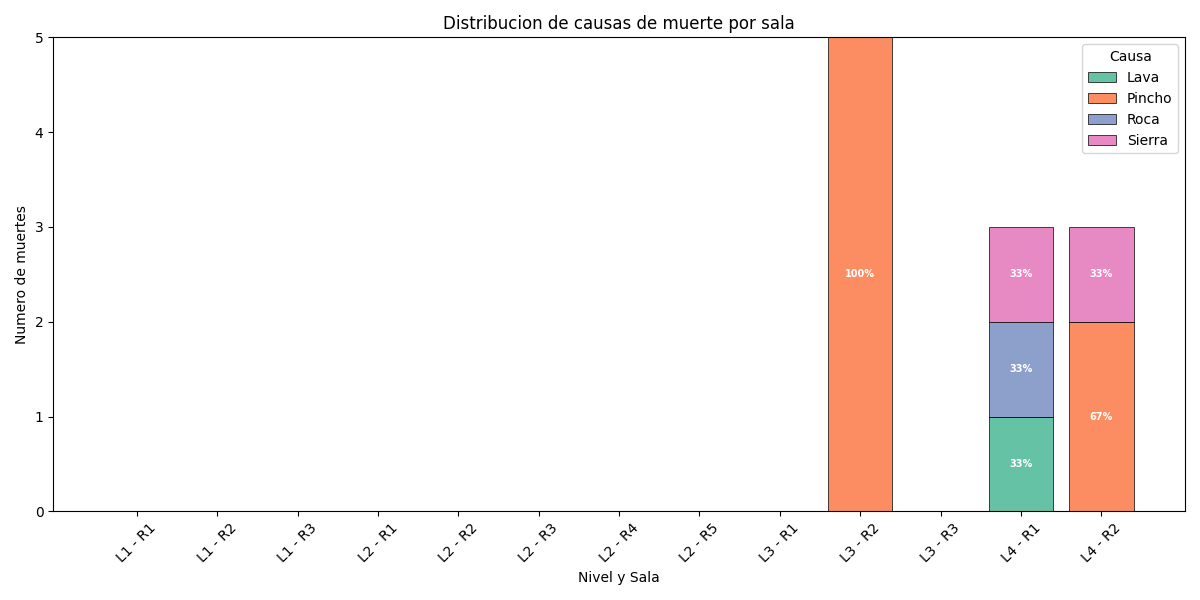
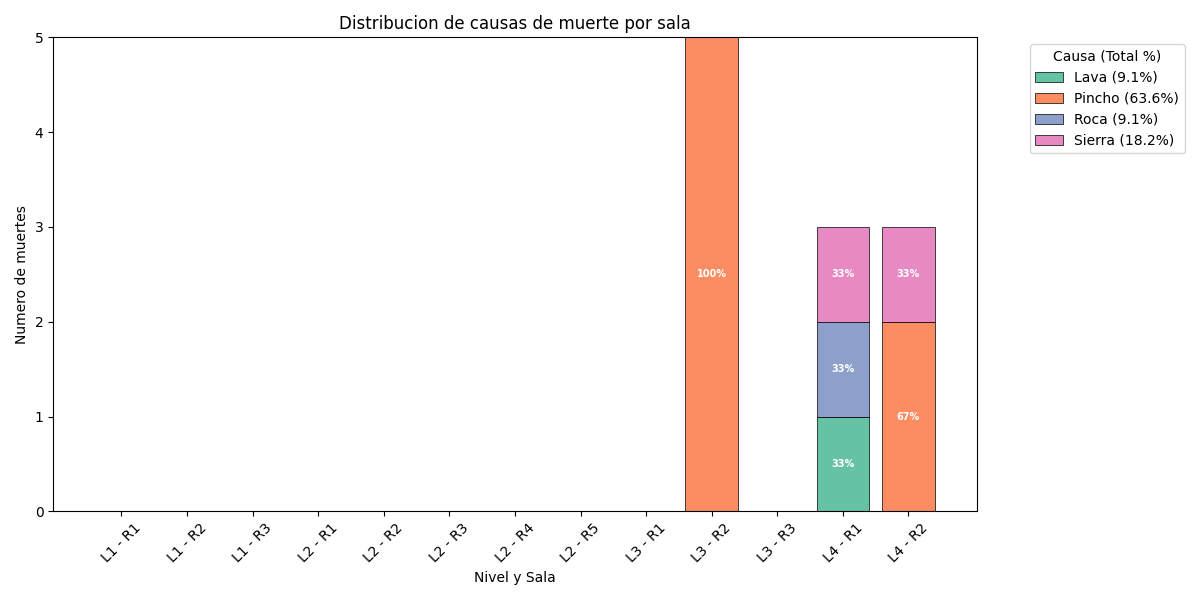
Porcentaje global de cada Death Cause

diff --git a/Metricas/src/Death_Cause.py b/Metricas/src/Death_Cause.py
@@ -83,6 +83,14 @@ for level, rooms in rooms_per_level.items():
         totals.append(sum(row))
 
 total_all = sum(totals)
+
+cause_totals = {cause: 0 for cause in all_causes}
+for level in data:
+    for room in data[level]:
+        for cause, count in data[level][room].items():
+            cause_totals[cause] += count
+
+
 print(f"Archivos leidos: {files_read}")
 print(f"Total Player_Death: {total_all}")
 print("\nMuertes por sala y causa:")
@@ -97,6 +105,14 @@ for i, (level, rooms) in enumerate(rooms_per_level.items()):
                 if c > 0:
                     print(f"    {cause}: {c} ({c/t*100:.1f}%)")
 
+print("\nPorcentaje global por causa de muerte:")
+if total_all > 0:
+    for cause in all_causes:
+        c_tot = cause_totals[cause]
+        print(f"  {cause}: {c_tot} ({(c_tot / total_all) * 100:.1f}%)")
+else:
+    print("  Sin muertes registradas.")
+
 os.makedirs("graficos", exist_ok=True)
 
 plt.figure(figsize=(12, 6))
@@ -107,7 +123,11 @@ colors = plt.cm.Set2.colors[:len(all_causes)]
 
 for j, cause in enumerate(all_causes):
     values = [room_cause_counts[i][j] for i in range(len(labels))]
-    bars = plt.bar(x, values, bottom=bottom, label=cause, color=colors[j % len(colors)], edgecolor='black', linewidth=0.5)
+    # Mostrar el porcentaje global en la leyenda
+    global_pct = (cause_totals[cause] / total_all * 100) if total_all > 0 else 0
+    legend_label = f"{cause} ({global_pct:.1f}%)"
+
+    bars = plt.bar(x, values, bottom=bottom, label=legend_label, color=colors[j % len(colors)], edgecolor='black', linewidth=0.5)
     for i, bar in enumerate(bars):
         h = bar.get_height()
         if h > 0:
@@ -120,7 +140,8 @@ plt.xlabel("Nivel y Sala")
 plt.ylabel("Numero de muertes")
 plt.title("Distribucion de causas de muerte por sala")
 plt.xticks(list(x), labels, rotation=45)
-plt.legend(title="Causa")
+
+plt.legend(title="Causa (Total %)", bbox_to_anchor=(1.05, 1), loc='upper left')
 
 plt.tight_layout()
 plt.savefig("graficos/grafico_muertes_por_causa.png")
